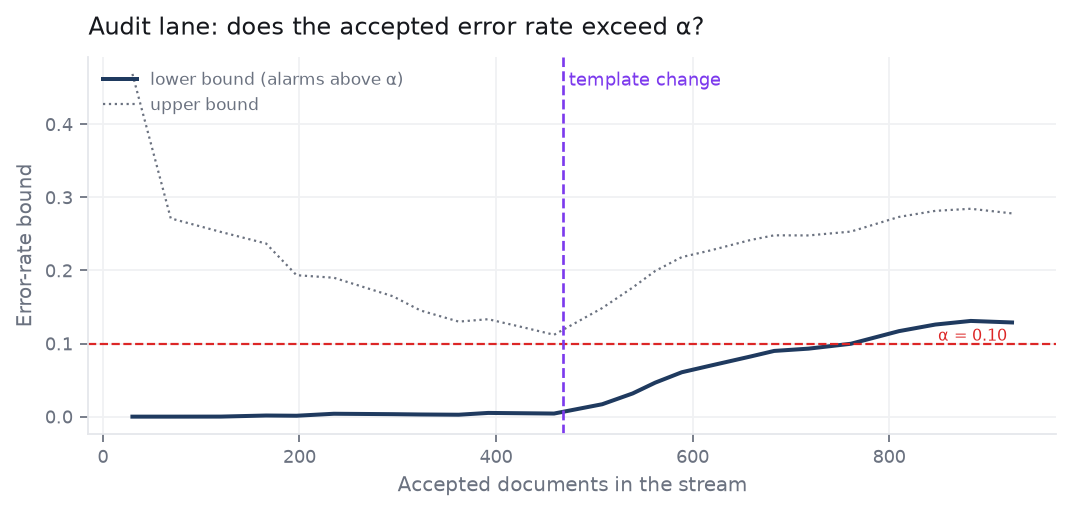
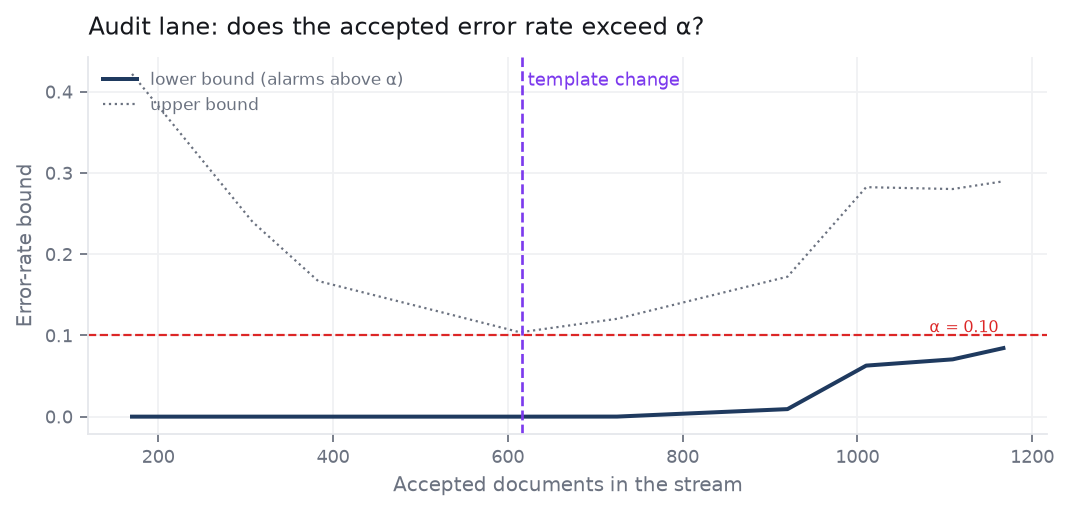
fix: make the experiment scripts reproduce their committed tables
Every script defaulted to the pre-v2 feature table and bundles, so a no-argument
run produced different numbers than the committed output. The defaults now name
the canonical inputs, and each table and figure regenerates unchanged.

Also reports the denominators behind the validity rates: how many resplits
certified at all, and the violation rate conditioned on that. S3's four
certificates at alpha=0.05 all violate, which the previous unconditional rate hid.

diff --git a/src/underwrite/eval/validity.py b/src/underwrite/eval/validity.py
@@ -38,10 +38,23 @@ class ValiditySummary:
     mean_realised_risk: float
     sd_realised_risk: float
     p95_realised_risk: float
+    n_certified: int = 0
 
     @property
     def uncertified_rate(self) -> float:
         return 1.0 - self.certified_rate
+
+    @property
+    def conditional_violation_rate(self) -> float:
+        """Share of *certified* splits whose realised risk exceeded alpha.
+
+        ``violation_rate`` divides by every split, so it is diluted by the splits where
+        no certificate was issued at all. This is the rate a user actually cares about:
+        given that the procedure made a promise, how often did it break it?
+        """
+        if self.n_certified == 0:
+            return float("nan")
+        return self.violation_rate / self.certified_rate
 
 
 def resplit_validity(
@@ -106,6 +119,7 @@ def resplit_validity(
         mean_realised_risk=float(np.mean(risks)) if risks else 0.0,
         sd_realised_risk=float(np.std(risks)) if risks else 0.0,
         p95_realised_risk=float(np.percentile(risks, 95)) if risks else 0.0,
+        n_certified=certified,
     )
 
 
@@ -142,6 +156,8 @@ def evaluate_methods(
                     "delta": delta,
                     "certified_rate": summary.certified_rate,
                     "violation_rate": summary.violation_rate,
+                    "n_certified": summary.n_certified,
+                    "conditional_violation_rate": summary.conditional_violation_rate,
                     "mean_coverage": summary.mean_coverage,
                     "sd_coverage": summary.sd_coverage,
                     "mean_realised_risk": summary.mean_realised_risk,

diff --git a/scripts/run_shift.py b/scripts/run_shift.py
@@ -23,10 +23,10 @@ from underwrite.probe.train import TRAIN_SPLIT, apply_scorers, fit_scorers  # no
 
 def main() -> int:
     parser = argparse.ArgumentParser(description=__doc__)
-    parser.add_argument("--source-table", default="data/features_table_cord.csv")
-    parser.add_argument("--target-table", default="data/features_table_synthetic.csv")
-    parser.add_argument("--source-features", default="data/features")
-    parser.add_argument("--target-features", default="data/features_synthetic")
+    parser.add_argument("--source-table", default="data/features_table_v2.csv")
+    parser.add_argument("--target-table", default="data/features_table_v2_synthetic.csv")
+    parser.add_argument("--source-features", default="data/features_promptfix")
+    parser.add_argument("--target-features", default="data/features_v2_synth")
     parser.add_argument("--field", default="total")
     parser.add_argument(
         "--methods",
@@ -35,7 +35,7 @@ def main() -> int:
     )
     parser.add_argument("--alphas", nargs="+", type=float, default=[0.10, 0.05])
     parser.add_argument("--delta", type=float, default=0.1)
-    parser.add_argument("--ks", nargs="+", type=int, default=[25, 50, 100])
+    parser.add_argument("--ks", nargs="+", type=int, default=[25, 50, 100, 150])
     parser.add_argument(
         "--include-source",
         action="store_true",

diff --git a/scripts/run_audit.py b/scripts/run_audit.py
@@ -26,8 +26,8 @@ from underwrite.probe.train import TRAIN_SPLIT, apply_scorers, fit_scorers  # no
 
 def main() -> int:
     parser = argparse.ArgumentParser(description=__doc__)
-    parser.add_argument("--table", default="data/features_table_cord.csv")
-    parser.add_argument("--features-dir", default="data/features")
+    parser.add_argument("--table", default="data/features_table_v2.csv")
+    parser.add_argument("--features-dir", default="data/features_promptfix")
     parser.add_argument("--field", default="total")
     parser.add_argument("--method", default="S5 probe + fusion")
     parser.add_argument(
@@ -43,9 +43,11 @@ def main() -> int:
     parser.add_argument(
         "--repeats",
         type=int,
-        default=4,
+        default=7,
         help="repeat the accepted set to lengthen the stream; the correct alarm rule "
-        "needs more audits than one test split provides",
+        "needs more audits than one test split provides. The default brings the clean "
+        "segment to roughly the 600 documents used per segment in run_audit_detection.py, "
+        "so the two are comparable",
     )
     parser.add_argument("--drift-error", type=float, default=0.40)
     parser.add_argument("--seed", type=int, default=20261017)

diff --git a/scripts/run_validity.py b/scripts/run_validity.py
@@ -23,8 +23,8 @@ from underwrite.probe.train import score_all  # noqa: E402
 
 def main() -> int:
     parser = argparse.ArgumentParser(description=__doc__)
-    parser.add_argument("--table", default="data/features_table.csv")
-    parser.add_argument("--features-dir", default="data/features")
+    parser.add_argument("--table", default="data/features_table_v2.csv")
+    parser.add_argument("--features-dir", default="data/features_promptfix")
     parser.add_argument("--field", default="total")
     parser.add_argument(
         "--methods",
@@ -35,7 +35,7 @@ def main() -> int:
     parser.add_argument("--delta", type=float, default=0.1)
     parser.add_argument("--splits", type=int, default=200)
     parser.add_argument("--seed", type=int, default=20261017)
-    parser.add_argument("--out", default="reports/tables/validity.csv")
+    parser.add_argument("--out", default="reports/tables/validity_total.csv")
     args = parser.parse_args()
 
     frame = pd.read_csv(args.table)

diff --git a/scripts/run_experiments.py b/scripts/run_experiments.py
@@ -31,9 +31,9 @@ def recorded_layers(features_dir: Path) -> list[int]:
 
 def main() -> int:
     parser = argparse.ArgumentParser(description=__doc__)
-    parser.add_argument("--table", default="data/features_table.csv")
-    parser.add_argument("--features-dir", default="data/features")
-    parser.add_argument("--fields", nargs="+", default=["total"])
+    parser.add_argument("--table", default="data/features_table_v2.csv")
+    parser.add_argument("--features-dir", default="data/features_promptfix")
+    parser.add_argument("--fields", nargs="+", default=["total", "subtotal", "tax"])
     parser.add_argument("--out", default="reports/tables/ablation.csv")
     parser.add_argument("--seed", type=int, default=20261017)
     parser.add_argument(

diff --git a/scripts/build_demo_batch.py b/scripts/build_demo_batch.py
@@ -67,8 +67,8 @@ def document_meta(features_dir: Path, doc_id: str) -> dict:
 
 def main() -> int:
     parser = argparse.ArgumentParser(description=__doc__)
-    parser.add_argument("--table", default="data/features_table_cord.csv")
-    parser.add_argument("--features-dir", default="data/features")
+    parser.add_argument("--table", default="data/features_table_v2.csv")
+    parser.add_argument("--features-dir", default="data/features_promptfix")
     parser.add_argument("--field", default=CERTIFIED_FIELD)
     parser.add_argument("--method", default="S5 probe + fusion")
     parser.add_argument("--documents", type=int, default=20)

diff --git a/scripts/make_figures.py b/scripts/make_figures.py
@@ -210,8 +210,8 @@ def main() -> int:
     parser = argparse.ArgumentParser(description=__doc__)
     parser.add_argument("--tables", default="reports/tables")
     parser.add_argument("--out", default="reports/figures")
-    parser.add_argument("--features-dir", default="data/features")
-    parser.add_argument("--table", default="data/features_table_cord.csv")
+    parser.add_argument("--features-dir", default="data/features_promptfix")
+    parser.add_argument("--table", default="data/features_table_v2.csv")
     args = parser.parse_args()
 
     tables = Path(args.tables)
